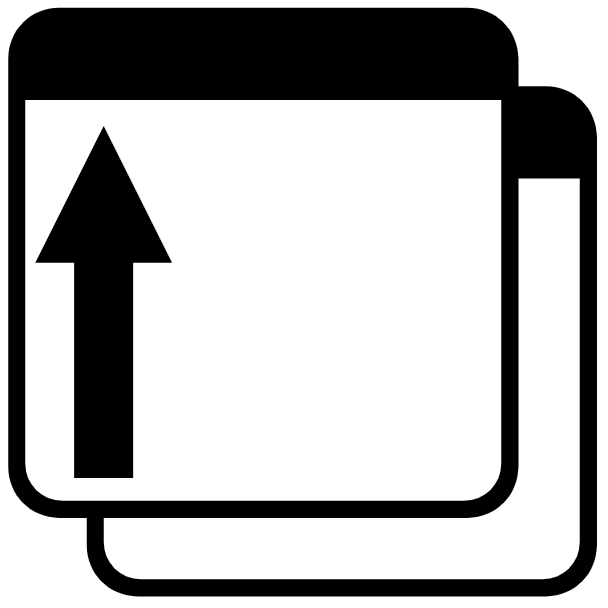
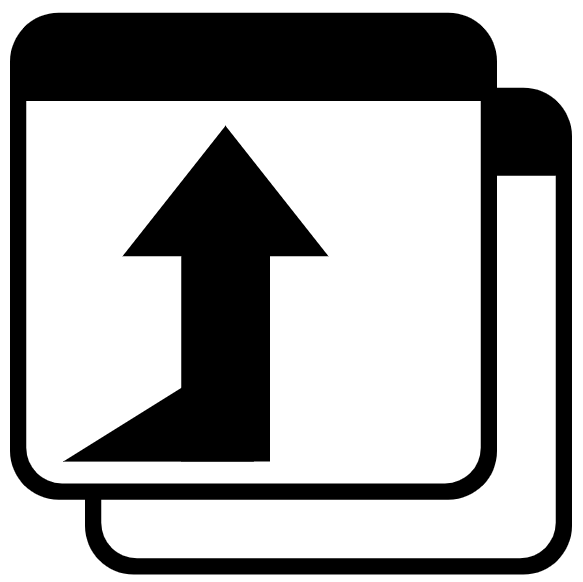
New update
Fixed icons and themes

diff --git a/extension.js b/extension.js
@@ -17,9 +17,6 @@ export default class ExampleExtension extends Extension {
 
         this._oldGlobalDisplayFocusWindow = null;
 
-        //Theme variable
-        this._gnome_theme = this._isDarkMode()
-
         // Create a panel button
         this._indicator = new PanelMenu.Button(0.0, this.metadata.name, false);
         this._indicator.connect('button-press-event', this._buttonClicked.bind(this))
@@ -28,7 +25,7 @@ export default class ExampleExtension extends Extension {
         this._iconSize = 20;
 
         //onthetop
-        const aboveAdwaitaIcon = Gio.icon_new_for_string(`${this.path}/icons/${this._gnome_theme ? 'Light' : 'Dark'}/Above.svg`)
+        const aboveAdwaitaIcon = Gio.icon_new_for_string(`${this.path}/icons/Symbolic/above-symbolic.svg`)
 
         this._aboveIcon = new St.Icon({
             gicon: aboveAdwaitaIcon,
@@ -36,7 +33,7 @@ export default class ExampleExtension extends Extension {
             icon_size: this._iconSize
         })
 
-        const underAdwaitaIcon = Gio.icon_new_for_string(`${this.path}/icons/${this._gnome_theme ? 'Light' : 'Dark'}/Under.svg`)
+        const underAdwaitaIcon = Gio.icon_new_for_string(`${this.path}/icons/Symbolic/under-symbolic.svg`)
 
         //onunder
         this._belowIcon = new St.Icon({
@@ -61,7 +58,6 @@ export default class ExampleExtension extends Extension {
             this._focusAppChanged.bind(this), this);
 
         this._settings = new Gio.Settings({ schema: 'org.gnome.desktop.interface' });
-        this._settingsHandleId = this._settings.connect('changed::gtk-theme', this._update_theme_icons.bind(this));
 
         // Add the indicator to the panel
         Main.panel.addToStatusArea(this.uuid, this._indicator, 2, 'left');
@@ -133,60 +129,6 @@ export default class ExampleExtension extends Extension {
 
     _buttonClicked() {
         global.display.focus_window.is_above() ? global.display.focus_window.unmake_above() : global.display.focus_window.make_above();
-    }
-
-    _update_theme_icons() {
-        console.log("UPDATE ICONS")
-        this._gnome_theme = this._isDarkMode()
-        try {
-            if (global.display.focus_window) {
-                this._indicator.visible = true
-                if (global.display.focus_window.is_above()) {
-                    this._indicator.remove_child(this._aboveIcon)
-                    this._new_iconSet()
-                    this._indicator.add_child(this._aboveIcon)
-                } else {
-                    this._indicator.remove_child(this._belowIcon)
-                    this._new_iconSet()
-                    this._indicator.add_child(this._belowIcon)
-                }
-            } else {
-                this._new_iconSet()
-                this._indicator.visible = false
-            }
-        }
-        catch {
-            //this._new_iconSet()
-            this._indicator.visible = false
-        }
-    }
-
-    _new_iconSet() {
-        //onthetop
-        const aboveAdwaitaIcon = Gio.icon_new_for_string(`${this.path}/icons/${this._gnome_theme ? 'Light' : 'Dark'}/Above.svg`)
-
-        this._aboveIcon = new St.Icon({
-            gicon: aboveAdwaitaIcon,
-            style_class: 'system-status-icon',
-            icon_size: this._iconSize
-        })
-
-        const underAdwaitaIcon = Gio.icon_new_for_string(`${this.path}/icons/${this._gnome_theme ? 'Light' : 'Dark'}/Under.svg`)
-
-        //onunder
-        this._belowIcon = new St.Icon({
-            gicon: underAdwaitaIcon,
-            style_class: 'system-status-icon',
-            icon_size: this._iconSize
-        })
-    }
-
-    _isDarkMode() {
-        const settings = new Gio.Settings({ schema: 'org.gnome.desktop.interface' })
-
-        //this is now is off, because the real light theme is not avalable on GNOME 45 (the light top bar theme, if it comes i will change back the default return)
-        return settings.get_string('gtk-theme').toLowerCase().includes('dark');
-        //return true;
     }
 }
 
